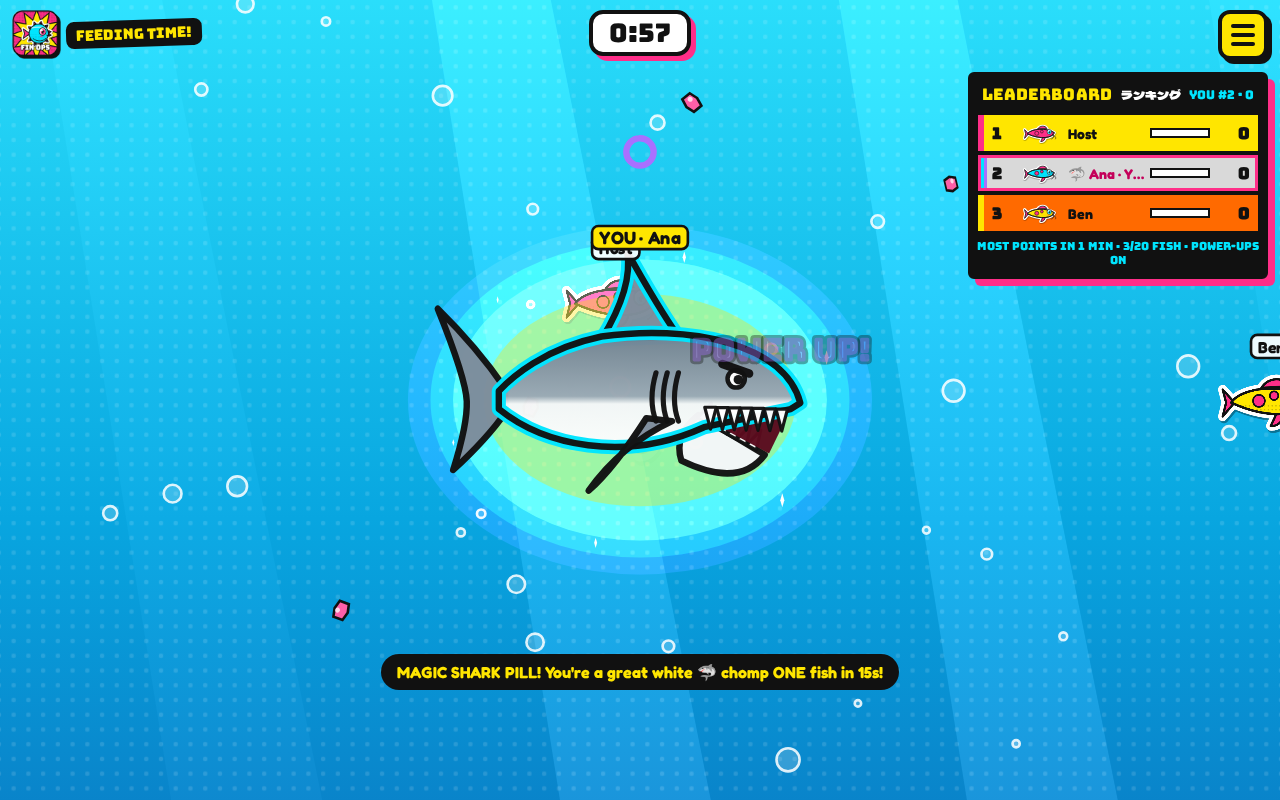
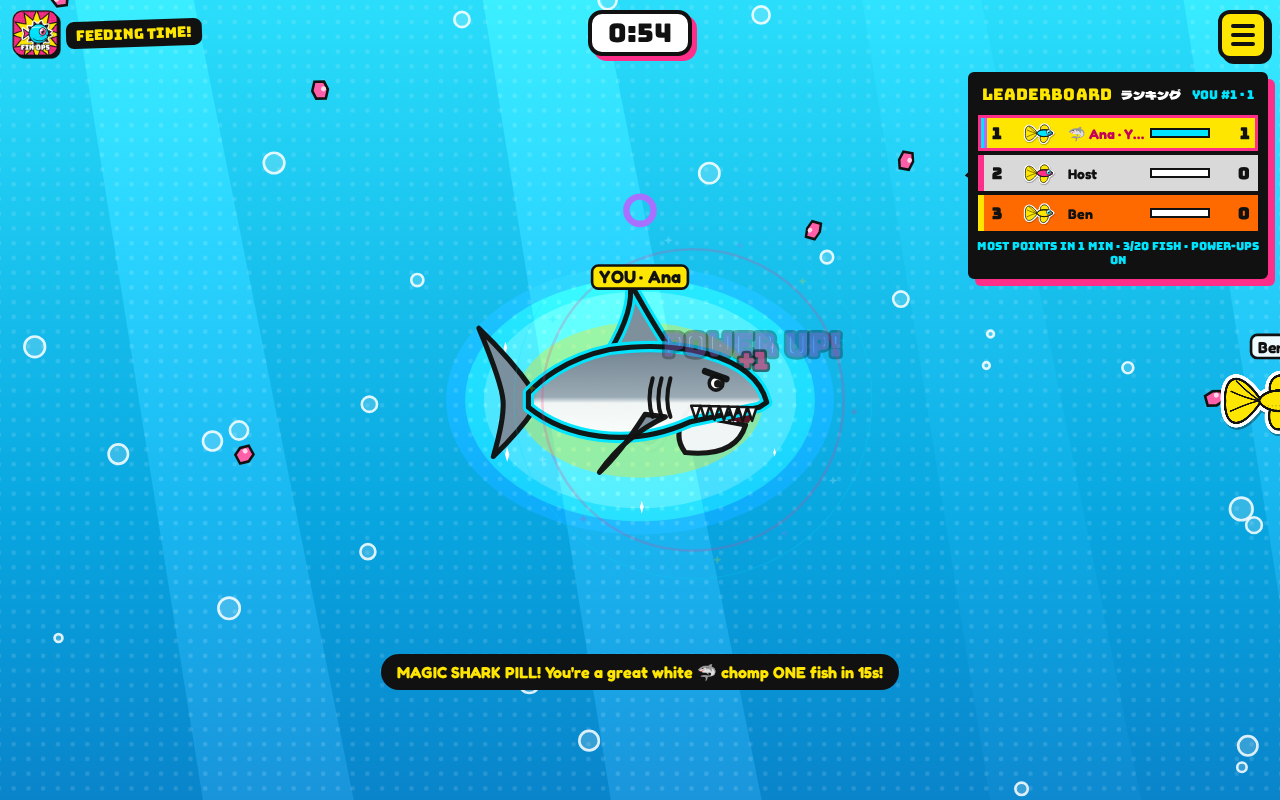
Fin Ops: hype up the magic shark pill (glossy capsule, halo/rays/sparkles, spawn alert + edge arrows, swallow burst)

diff --git a/games/finops/app.js b/games/finops/app.js
@@ -15,7 +15,7 @@ const WORLD_W = 2000, WORLD_H = 1250, SAND_H = 70;
 const FISH_LEN = 110, FISH_HT = FISH_LEN * 208 / 268;
 const MAX_SIZE = 2.6, GROW = 1.1;
 const TICK_MS = 33, SNAP_EVERY = 2, INTERP_MAX = 150, INTERP_MIN = 50, HOST_INTERP = 45;
-const FOOD_R = 9, PILL_R = 13;
+const FOOD_R = 9, PILL_R = 18;
 // flakes / second (scaled by player count). Round 2: 20% less food at every level (was 1.1 / 2.1 / 3.6).
 const FOOD_RATE = { low: 0.88, med: 1.68, high: 2.88 };
 const DEFAULTS = { mode: 'timer', min: 1, goal: 20, food: 'med', pw: true };
@@ -778,7 +778,7 @@ function predStep(dt) {
 /* one-off effects from the host: pill swallowed, chomp + splat, power-up over */
 function onFx(d) {
   const t = now(), pl = V.meta.pl || {};
-  if (d.k === 'pill') { const fv = fishView(d.pid); fv.pwAt = t; fv.vs += 4; if (d.pid === myId) toast('MAGIC SHARK PILL! You\'re a great white 🦈 chomp ONE fish in 15s!'); else if (pl[d.pid]) toast(pl[d.pid][0] + ' got the magic shark pill! 🦈'); }
+  if (d.k === 'pill') { const fv = fishView(d.pid); if (fv.wx != null) BURSTS.push({ x: fv.wx, y: fv.wy, t, r: Math.random() * 6 }); fv.pwAt = t; fv.vs += 4; if (d.pid === myId) toast('MAGIC SHARK PILL! You\'re a great white 🦈 chomp ONE fish in 15s!'); else if (pl[d.pid]) toast(pl[d.pid][0] + ' got the magic shark pill! 🦈'); }
   else if (d.k === 'unpw') { const fv = fishView(d.pid); fv.unAt = t; if (d.why === 'ate' && !REDUCED) { fv.holdShark = t + 650; fv.sharkSize = fv.ds; } else fv.vs -= 2; if (d.pid === myId && d.why === 'time') toast('Power-up wore off'); }
   else if (d.k === 'chomp') {
     const m = pl[d.b] || [];
@@ -836,7 +836,7 @@ function frame() {
   ctx.setTransform(DPR * cam.z, 0, 0, DPR * cam.z, DPR * (VW / 2 - cam.x * cam.z + sx), DPR * (VH / 2 - cam.y * cam.z + sy));
   drawTank(t, dt);
   drawFood(foods, t);
-  if (pill) drawPill(pill.x, pill.y, t, clamp(pill.fade, 0, 1), 1);
+  if (pill) { if (pill.fade > 0.5) pillAlert(pill.id); drawPill(pill.x, pill.y, t, clamp(pill.fade, 0, 1), 1, true); }
   // fish (smaller first so big fish sit on top), names after
   const sorted = players.slice().sort((a, b) => a.size - b.size);
   const bait = pill ? foods.concat([{ x: pill.x, y: pill.y }]) : foods;
@@ -844,7 +844,9 @@ function frame() {
   for (const p of sorted) { const fv = fishView(p.id); fv.wx = p.x + p.f * 0.43 * FISH_LEN * fv.ds; fv.wy = p.y; drawFish(p, bait, t, dt); }
   drawEats(players, t);
   drawSplats(t);
+  drawBursts(t);
   for (const p of sorted) drawName(p);
+  if (pill && V.ph === 'play') { ctx.setTransform(DPR, 0, 0, DPR, 0, 0); drawPillArrow(pill, t); ctx.setTransform(DPR * cam.z, 0, 0, DPR * cam.z, DPR * (VW / 2 - cam.x * cam.z + sx), DPR * (VH / 2 - cam.y * cam.z + sy)); }
   if (urgent) { ctx.setTransform(DPR, 0, 0, DPR, 0, 0); const a = 0.10 + 0.08 * Math.sin(t / 160); ctx.fillStyle = `rgba(255,46,136,${a})`; ctx.fillRect(0, 0, VW, VH); }
   // HUD text
   updateHud(players, t);
@@ -1045,22 +1047,100 @@ function drawShark(w, h, ds, t, fv, hex) {
   ctx.lineWidth = lw * 1.3; ctx.beginPath(); ctx.moveTo(ex - er * 1.6, ey - er * 1.7); ctx.lineTo(ex + er * 1.5, ey - er * 0.6); ctx.stroke();
   ctx.lineWidth = lw;
 }
-// glowing capsule pill
-function drawPill(x, y, t, alpha, scale) {
-  ctx.save(); ctx.translate(x, y); ctx.rotate(REDUCED ? 0.5 : Math.sin(t / 300) * 0.6 + 0.5); ctx.scale(scale, scale); ctx.globalAlpha = alpha;
-  const hue = (t / 6) % 360, pulse = REDUCED ? 1 : 1 + 0.15 * Math.sin(t / 120);
-  const gl = ctx.createRadialGradient(0, 0, 2, 0, 0, 40 * pulse);
-  gl.addColorStop(0, `hsla(${hue},100%,75%,.9)`); gl.addColorStop(1, `hsla(${hue},100%,60%,0)`);
-  ctx.fillStyle = gl; ctx.beginPath(); ctx.arc(0, 0, 40 * pulse, 0, 7); ctx.fill();
-  const r = PILL_R * 0.75, L = PILL_R * 1.1;
-  ctx.lineWidth = 3; ctx.strokeStyle = '#111';
-  ctx.fillStyle = '#FF2E88'; ctx.beginPath(); ctx.arc(-L / 2, 0, r, Math.PI / 2, Math.PI * 1.5); ctx.lineTo(0, -r); ctx.lineTo(0, r); ctx.closePath(); ctx.fill(); ctx.stroke();
-  ctx.fillStyle = '#00E5FF'; ctx.beginPath(); ctx.arc(L / 2, 0, r, -Math.PI / 2, Math.PI / 2); ctx.lineTo(0, r); ctx.lineTo(0, -r); ctx.closePath(); ctx.fill(); ctx.stroke();
-  ctx.fillStyle = 'rgba(255,255,255,.8)'; ctx.beginPath(); ctx.ellipse(-L / 2, -r * 0.4, r * 0.5, r * 0.22, 0, 0, 7); ctx.fill();
+// MAGIC SHARK PILL: cached glossy capsule with a shark-fin emblem, rotating rays, pulsing halo,
+// holographic shimmer sweep, orbiting sparkles and a glitter trail. Sprites are built once.
+const PILL_SPR = {};
+function pillSprites() {
+  if (PILL_SPR.cap) return PILL_SPR;
+  const mk = (w, h) => { const c = document.createElement('canvas'); c.width = w; c.height = h; return c; };
+  const S = 4, r = PILL_R * 0.8, L = PILL_R * 1.25, W = (L + 2 * r + 8) * S, Hh = (2 * r + 8) * S;
+  const cap = mk(W, Hh), g = cap.getContext('2d'); g.translate(W / 2, Hh / 2); g.scale(S, S);
+  const body = (c) => { c.beginPath(); c.arc(-L / 2, 0, r, Math.PI / 2, Math.PI * 1.5); c.lineTo(L / 2, -r); c.arc(L / 2, 0, r, -Math.PI / 2, Math.PI / 2); c.closePath(); };
+  g.save(); body(g); g.clip();
+  let gr = g.createLinearGradient(0, -r, 0, r); gr.addColorStop(0, '#FF7AC0'); gr.addColorStop(0.5, '#FF2E88'); gr.addColorStop(1, '#B0005A');
+  g.fillStyle = gr; g.fillRect(-L - r, -r, L + r, 2 * r);
+  gr = g.createLinearGradient(0, -r, 0, r); gr.addColorStop(0, '#9CF6FF'); gr.addColorStop(0.5, '#00E5FF'); gr.addColorStop(1, '#0088B8');
+  g.fillStyle = gr; g.fillRect(0, -r, L + r, 2 * r);
+  g.fillStyle = '#FFE600'; g.fillRect(-2, -r, 4, 2 * r); // gold band
+  g.fillStyle = 'rgba(255,255,255,.75)'; g.beginPath(); g.ellipse(-L * 0.1, -r * 0.5, L * 0.75, r * 0.2, 0, 0, 7); g.fill();
+  g.restore();
+  // shark-fin emblem on the cyan half
+  g.fillStyle = '#fff'; g.strokeStyle = '#111'; g.lineWidth = 1.6; g.beginPath(); g.moveTo(L * 0.18, r * 0.45); g.quadraticCurveTo(L * 0.42, -r * 0.1, L * 0.38, -r * 0.75); g.quadraticCurveTo(L * 0.62, -r * 0.05, L * 0.78, r * 0.45); g.closePath(); g.fill(); g.stroke();
+  // tooth on the pink half
+  g.fillStyle = '#fff'; g.beginPath(); g.moveTo(-L * 0.62, -r * 0.45); g.lineTo(-L * 0.22, -r * 0.45); g.lineTo(-L * 0.42, r * 0.55); g.closePath(); g.fill(); g.stroke();
+  g.lineWidth = 3; body(g); g.stroke();
+  // rays
+  const R2 = 90, rays = mk(R2 * 2, R2 * 2), q = rays.getContext('2d'); q.translate(R2, R2);
+  const rg = q.createRadialGradient(0, 0, 4, 0, 0, R2); rg.addColorStop(0, 'rgba(255,240,140,.85)'); rg.addColorStop(1, 'rgba(255,240,140,0)');
+  q.fillStyle = rg; for (let i = 0; i < 10; i++) { const a = i * Math.PI / 5; q.beginPath(); q.moveTo(0, 0); q.arc(0, 0, R2, a - 0.13, a + 0.13); q.closePath(); q.fill(); }
+  // halo
+  const R3 = 64, halo = mk(R3 * 2, R3 * 2), hq = halo.getContext('2d'), hg = hq.createRadialGradient(R3, R3, 4, R3, R3, R3);
+  hg.addColorStop(0, 'rgba(255,255,255,.95)'); hg.addColorStop(0.25, 'rgba(0,229,255,.6)'); hg.addColorStop(0.6, 'rgba(169,112,255,.35)'); hg.addColorStop(1, 'rgba(255,46,136,0)');
+  hq.fillStyle = hg; hq.fillRect(0, 0, R3 * 2, R3 * 2);
+  Object.assign(PILL_SPR, { cap, cw: W / S, ch: Hh / S, rays, R2, halo, R3, r, L, body });
+  return PILL_SPR;
+}
+const SPARK_COLS = ['#FFE600', '#00E5FF', '#FF2E88', '#fff', '#A970FF'];
+function star(x, y, s, col) { ctx.fillStyle = col; ctx.beginPath(); ctx.moveTo(x, y - s); ctx.lineTo(x + s * 0.3, y - s * 0.3); ctx.lineTo(x + s, y); ctx.lineTo(x + s * 0.3, y + s * 0.3); ctx.lineTo(x, y + s); ctx.lineTo(x - s * 0.3, y + s * 0.3); ctx.lineTo(x - s, y); ctx.lineTo(x - s * 0.3, y - s * 0.3); ctx.closePath(); ctx.fill(); }
+// glitter trail (fixed pool, no per-frame allocation)
+const GLIT = Array.from({ length: 40 }, () => ({ x: 0, y: 0, t: -1e9, c: 0, vx: 0 })); let glitI = 0, glitLast = 0;
+function drawPill(x, y, t, alpha, scale, full) {
+  const P = pillSprites();
+  const bob = REDUCED || !full ? 0 : Math.sin(t / 260) * 5;
+  y += bob;
+  if (full && !REDUCED && t - glitLast > 45) { const g = GLIT[glitI++ % GLIT.length]; g.x = x + rand(-10, 10); g.y = y + rand(-6, 6); g.t = t; g.c = (glitI % 5); g.vx = rand(-12, 12); glitLast = t; }
+  if (full && !REDUCED) for (const g of GLIT) { const age = t - g.t; if (age > 900) continue; const k = age / 900;
+    ctx.globalAlpha = alpha * (1 - k); star(g.x + g.vx * k, g.y - 12 * k, 4 * (1 - k * 0.5), SPARK_COLS[g.c]); }
+  ctx.save(); ctx.translate(x, y); ctx.globalAlpha = alpha;
+  if (full) {
+    const pulse = REDUCED ? 1 : 1 + 0.12 * Math.sin(t / 150);
+    ctx.save(); ctx.rotate(REDUCED ? 0 : t / 1400); ctx.globalAlpha = alpha * 0.7; ctx.drawImage(P.rays, -P.R2, -P.R2); ctx.restore();
+    ctx.save(); ctx.globalCompositeOperation = 'lighter'; const hs = P.R3 * pulse; ctx.drawImage(P.halo, -hs, -hs, hs * 2, hs * 2); ctx.restore();
+  }
+  ctx.rotate(REDUCED ? -0.35 : Math.sin(t / 420) * 0.35 - 0.3); ctx.scale(scale * 1.45, scale * 1.45);
+  ctx.drawImage(P.cap, -P.cw / 2, -P.ch / 2, P.cw, P.ch);
+  if (!REDUCED) { // holographic shimmer sweep across the capsule
+    const k = (t / 1100) % 1, sx = -P.L - P.r + k * (2 * P.L + 2 * P.r) * 1.4;
+    ctx.save(); P.body(ctx); ctx.clip(); ctx.globalCompositeOperation = 'lighter'; ctx.globalAlpha = alpha * 0.55;
+    ctx.fillStyle = `hsl(${(t / 4) % 360},100%,70%)`; ctx.beginPath(); ctx.moveTo(sx, -P.r); ctx.lineTo(sx + 9, -P.r); ctx.lineTo(sx - 1, P.r); ctx.lineTo(sx - 10, P.r); ctx.closePath(); ctx.fill(); ctx.restore();
+  }
+  ctx.restore(); ctx.globalAlpha = 1;
+  if (full && alpha > 0.5) { ctx.lineWidth = 1.5; ctx.strokeStyle = '#111';
+    for (let i = 0; i < 5; i++) { const a = (REDUCED ? 0 : t / 380) + i * 1.2566, rr = 36 + (REDUCED ? 0 : 5 * Math.sin(t / 110 + i)), s = 6 + (REDUCED ? 0 : 2 * Math.sin(t / 90 + i * 2));
+      star(x + Math.cos(a) * rr, y + Math.sin(a) * rr * 0.8, s, SPARK_COLS[i]); } }
+}
+// grab payoff: shockwave rings + sparkle burst where the pill was swallowed
+const BURSTS = [];
+function drawBursts(t) {
+  for (let i = BURSTS.length - 1; i >= 0; i--) {
+    const b = BURSTS[i], k = (t - b.t) / 700; if (k >= 1) { BURSTS.splice(i, 1); continue; }
+    ctx.save(); ctx.translate(b.x, b.y); ctx.globalAlpha = 1 - k;
+    for (let j = 0; j < (REDUCED ? 1 : 2); j++) { const kk = clamp(k * 1.3 - j * 0.2, 0, 1); ctx.lineWidth = 8 * (1 - kk) + 1; ctx.strokeStyle = j ? '#FF2E88' : '#00E5FF';
+      ctx.beginPath(); ctx.arc(0, 0, 20 + (REDUCED ? 60 : kk * 150), 0, 7); ctx.stroke(); }
+    if (!REDUCED) for (let j = 0; j < 14; j++) { const a = j * 0.4488 + b.r, d = 20 + k * 170; star(Math.cos(a) * d, Math.sin(a) * d, 9 * (1 - k) + 2, SPARK_COLS[j % 5]); }
+    ctx.restore();
+  }
+}
+// off-screen pointer to the pill, drawn in screen space
+function drawPillArrow(pill, t) {
+  const sx = (pill.x - cam.x) * cam.z + VW / 2, sy = (pill.y - cam.y) * cam.z + VH / 2, m = 46;
+  if (sx > 0 && sx < VW && sy > 0 && sy < VH) return;
+  const cx = VW / 2, cy = VH / 2, dx = sx - cx, dy = sy - cy, sc = Math.min((VW / 2 - m) / Math.abs(dx || 1e-6), (VH / 2 - m) / Math.abs(dy || 1e-6));
+  const ax = cx + dx * sc, ay = cy + dy * sc, ang = Math.atan2(dy, dx), pul = REDUCED ? 1 : 1 + 0.12 * Math.sin(t / 120);
+  ctx.save(); ctx.translate(ax, ay); ctx.scale(pul, pul);
+  ctx.fillStyle = 'rgba(255,230,0,.35)'; ctx.beginPath(); ctx.arc(0, 0, 30, 0, 7); ctx.fill();
+  ctx.save(); ctx.rotate(ang); ctx.fillStyle = '#FFE600'; ctx.strokeStyle = '#111'; ctx.lineWidth = 3;
+  ctx.beginPath(); ctx.moveTo(36, 0); ctx.lineTo(18, -13); ctx.lineTo(18, 13); ctx.closePath(); ctx.fill(); ctx.stroke(); ctx.restore();
+  const P = pillSprites(); ctx.rotate(-0.3); ctx.drawImage(P.cap, -P.cw * 0.6, -P.ch * 0.6, P.cw * 1.2, P.ch * 1.2);
   ctx.restore();
-  if (!REDUCED && alpha > 0.5) for (let i = 0; i < 3; i++) { const a = t / 260 + i * 2.1, rr = 24 + 4 * Math.sin(t / 100 + i), s = 5;
-    const cx = x + Math.cos(a) * rr, cy = y + Math.sin(a) * rr; ctx.fillStyle = '#FFE600'; ctx.strokeStyle = '#111'; ctx.lineWidth = 1.5;
-    ctx.beginPath(); ctx.moveTo(cx, cy - s); ctx.lineTo(cx + s * 0.3, cy); ctx.lineTo(cx, cy + s); ctx.lineTo(cx - s * 0.3, cy); ctx.closePath(); ctx.fill(); ctx.stroke(); }
+}
+// tank-wide alert when a new pill appears (works for host + clients, and late joiners)
+let lastPillId = -1;
+function pillAlert(id) {
+  if (id === lastPillId) return; lastPillId = id;
+  const el2 = $('#pillAlert'); el2.hidden = false; el2.classList.remove('go'); void el2.offsetWidth; el2.classList.add('go');
+  const fl = $('#pillFlash'); if (!REDUCED) { fl.classList.remove('go'); void fl.offsetWidth; fl.classList.add('go'); }
+  clearTimeout(pillAlert.t); pillAlert.t = setTimeout(() => { el2.hidden = true; }, 2400);
 }
 // chomp: cartoon red splat bursting out + a few bubbles + "CHOMP!", gone within ~1.5 s
 const SPLAT_MS = 1500;

diff --git a/games/finops/style.css b/games/finops/style.css
@@ -205,8 +205,23 @@ body.urgent #board { animation:wiggle .35s ease-in-out infinite; }
 .row.out img { filter:grayscale(1) opacity(.6); }
 .row.pw { box-shadow:0 0 0 3px #A970FF inset; }
 .lobby-pw { font-size:.78rem; font-weight:700; }
+/* magic shark pill alert */
+#pillAlert { position:fixed; left:50%; top:86px; transform:translateX(-50%); z-index:29; display:flex; flex-direction:column; align-items:center; padding:8px 20px; pointer-events:none;
+  background:linear-gradient(90deg,#FF2E88,#A970FF,#00E5FF); border:4px solid var(--black); border-radius:16px; box-shadow:5px 5px 0 var(--black); color:#fff; text-align:center; }
+#pillAlert b { font-family:Bungee, sans-serif; font-size:1.5rem; -webkit-text-stroke:1.5px var(--black); text-shadow:3px 3px 0 var(--black); }
+#pillAlert span { font-weight:700; font-size:.9rem; text-shadow:1px 1px 0 var(--black); }
+#pillAlert.go { animation:pillIn .5s cubic-bezier(.3,1.7,.5,1), pillBeat .42s ease-in-out .5s 3, pillOut .4s ease-in 2s forwards; }
+@keyframes pillIn { from { transform:translateX(-50%) translateY(-60px) scale(.6); opacity:0; } }
+@keyframes pillBeat { 50% { transform:translateX(-50%) scale(1.07); } }
+@keyframes pillOut { to { transform:translateX(-50%) translateY(-30px); opacity:0; } }
+#pillFlash { position:fixed; inset:0; z-index:27; pointer-events:none; opacity:0; box-shadow:inset 0 0 0 10px #FFE600, inset 0 0 90px 20px rgba(169,112,255,.7); }
+#pillFlash.go { animation:pillFlash 1.3s ease-out; }
+@keyframes pillFlash { 0%{opacity:0} 12%{opacity:1} 30%{opacity:.4} 45%{opacity:.9} 100%{opacity:0} }
+@media (max-width:600px) { #pillAlert b { font-size:1.05rem; } #pillAlert { top:70px; } }
 @media (prefers-reduced-motion: reduce) {
   #eatenBanner { animation:none; }
+  #pillAlert.go { animation:pillOut .3s linear 2s forwards; }
+  #pillFlash { display:none; }
   *, *::before, *::after { animation-duration:.01ms !important; animation-iteration-count:1 !important; transition:none !important; }
   body.urgent #urgentFx { opacity:.7; }
   .timer-pill.blink { background:var(--pink); color:#fff; }

diff --git a/games/finops/index.html b/games/finops/index.html
@@ -80,6 +80,8 @@
 </div>
 
 <div id="countdown" hidden><div id="cdText"></div></div>
+<div id="pillFlash" aria-hidden="true"></div>
+<div id="pillAlert" hidden role="status" aria-live="polite"><b>🦈 MAGIC SHARK PILL INCOMING!</b><span>Grab it to become a great white</span></div>
 <div id="eatenBanner" hidden role="status" aria-live="polite"><b>You got eaten!</b><span>Your score is locked in</span><small>Chomped by a shark! Spectating until the next round 🦈</small></div>
 
 <section id="endScreen" hidden>
